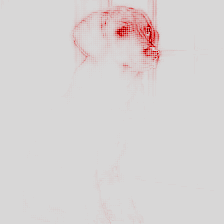
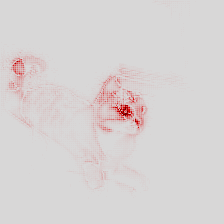
u

diff --git a/main.py b/main.py
@@ -11,6 +11,7 @@ import numpy
 import matplotlib
 import matplotlib.pyplot as plt
 from matplotlib.colors import ListedColormap
+from diffusers import StableDiffusionPipeline
 
 
 def save_heatmap(R, filepath, dpi=150):
@@ -70,14 +71,36 @@ class MobileNetResidualCanonizer(AttributeCanonizer):
         return out
 
 
-if __name__ == "__main__":
+def generate_sd_image(prompt: str, seed: int, steps: int = 30,
+                      out_path: str = "sd_image.png") -> Image.Image:
+    """Generate an image with SD‑v1‑4 and save it."""
+    SD_MODEL_ID = "CompVis/stable-diffusion-v1-4"
+    device = "cuda" if torch.cuda.is_available() else "cpu"
+    torch_dtype = torch.float16 if device == "cuda" else torch.float32
+
+    pipe = StableDiffusionPipeline.from_pretrained(
+        SD_MODEL_ID,
+        torch_dtype=torch_dtype,
+        safety_checker=None,        # <- drop NSFW checker for speed (optional)
+    )
+    pipe = pipe.to(device)
+    pipe.enable_attention_slicing()  # lower VRAM
+
+    g = torch.Generator(device).manual_seed(seed)
+    image = pipe(prompt, num_inference_steps=steps,
+                 generator=g).images[0]          # PIL.Image
+
+    image.save(out_path)
+    return image
+
+
+def run(prompt="Image of cat sitting on a window sill", seed=482342374238978974):
     matplotlib.use("Agg")
+    image = generate_sd_image(prompt, seed)
     weights = MobileNet_V2_Weights.IMAGENET1K_V1
     model = mobilenet_v2(weights=weights).eval().to("cpu")
 
-    img = Image.open("image.png")
-
-    x = weights.transforms()(Image.open("image.png")).unsqueeze(0).cpu()
+    x = weights.transforms()(image).unsqueeze(0).cpu()
 
     # canonizer = SequentialMergeBatchNorm()
     # composite = EpsilonPlus(
@@ -93,3 +116,7 @@ if __name__ == "__main__":
         relevance = attr(x)[1]
 
     save_heatmap(relevance[0], "lrp_heatmap.png")
+
+
+if __name__ == "__main__":
+    run()
